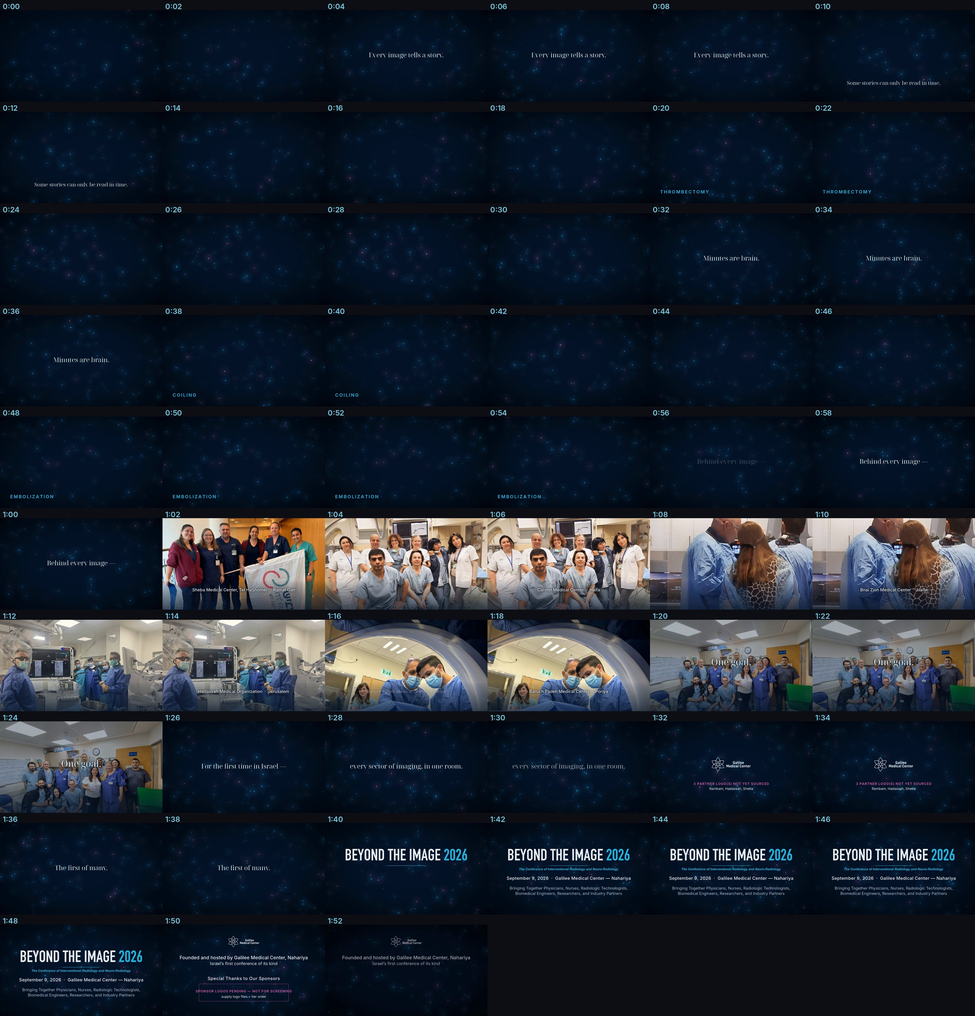
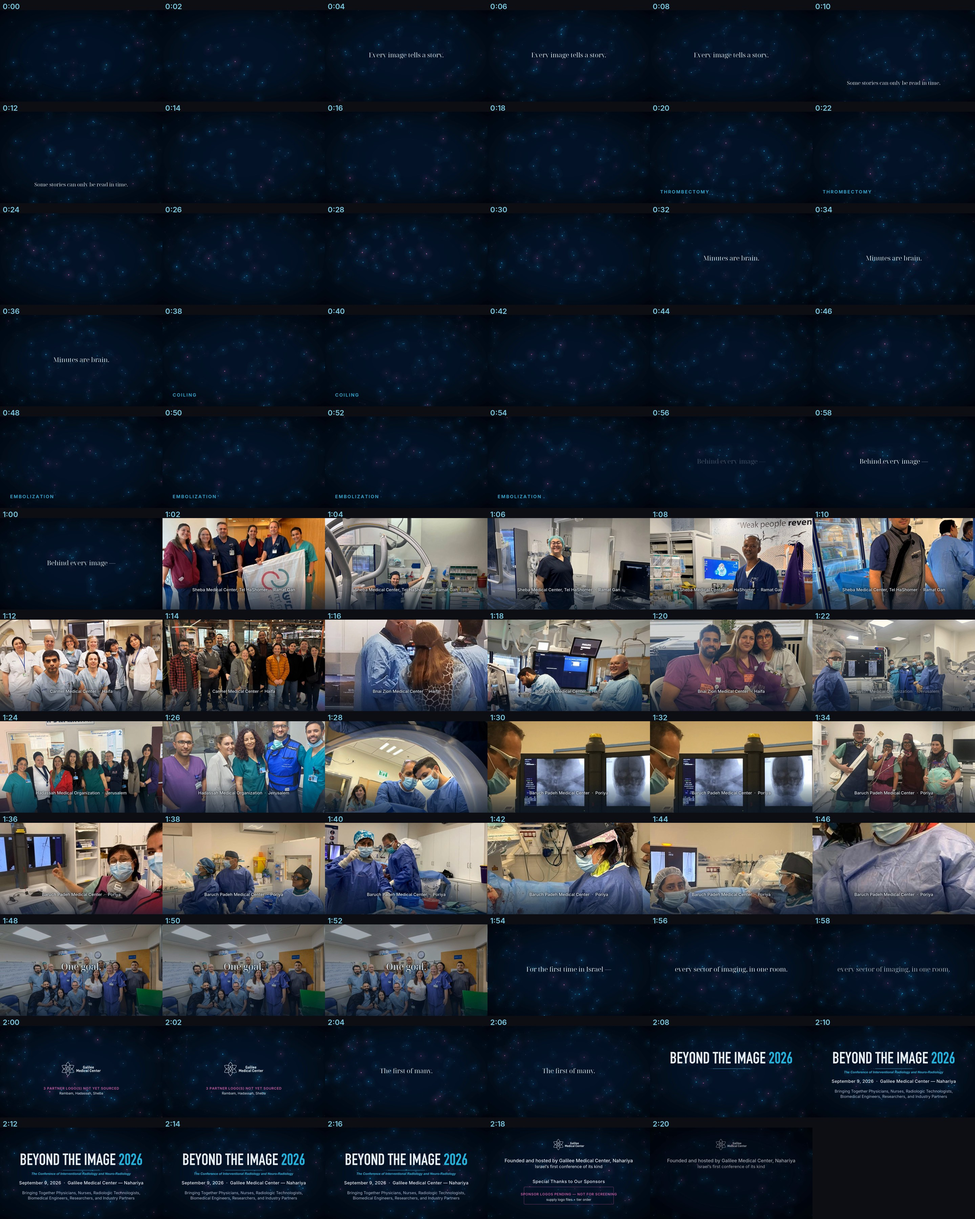
Use every supplied photograph in the team montage
The montage was casting one photograph per institution and leaving the rest
in reserve. It now runs all 23 supplied photographs, grouped by institution
in the client-specified order, 2.14s each, with one caption held across each
group rather than one per frame - a caption per photograph would flash nine
times in nineteen seconds through the Poriya group.

photos.json now carries a "photos" list per institution instead of a single
"hero", so adding or reordering frames is a data edit.

Two photographs that were held back are rescued by cropping rather than
dropped:
- bnaizion_01 cropped to the right two-thirds removes the patient's face
  entirely; only the operators and the monitors remain, so the consent
  problem is gone.
- hadassah_02 cropped to the left 80% drops the foreground man who was cut
  through the skull by the frame edge.

S12 goes 24s -> 52s and the film 114s -> 142s, still inside the 155s ceiling.
Three Poriya frames carry visible blood; they are ordered last within their
group so removing them is a three-line edit if the client wants them out.

Claude-Session: https://claude.ai/code/session_017p5tYCJoZxeo71cVTyLicr

diff --git a/film/scripts/montage.py b/film/scripts/montage.py
@@ -1,10 +1,14 @@
 #!/usr/bin/env python3
-"""S12 - the team montage (25s, 1:30-1:55). The emotional core.
+"""S12 - the team montage. The emotional core.
+
+Every photograph the client supplied is in here, grouped by institution in the
+client-specified order, one caption held across each group.
 
 Hard rules honoured here:
   - photographs are never regenerated, restyled, filtered or face-altered
   - motion is limited to a slow push-in and a few px of drift
-  - each institution gets one slot, in the client-specified order
+  - a fractional crop may exclude something from frame (a patient, a sticker)
+    but never alters what stays in it
 Only geometry (cover-crop, scale) and a bottom scrim for caption legibility
 are applied. Pixels inside the frame are the client's own.
 """
@@ -15,6 +19,7 @@ from PIL import Image, ImageDraw, ImageFilter
 
 from filmlib import (ROOT, W, H, FPS, BG, CYAN, SILVER, font, load_photos,
                      centred_line, run, INTERMEDIATE)
+
 
 def _shot_dur(shot_id, default):
     from filmlib import load_storyboard
@@ -139,53 +144,72 @@ def dim_layer(opacity):
 
 
 def build_slots():
+    """Every supplied photograph gets a slot, grouped by institution.
+
+    Institutions with no photographs are skipped rather than filling the film's
+    emotional core with an empty reserved card; the montage re-expands by
+    itself the moment photographs land in photos.json.
+    """
     cfg = load_photos()
     insts = cfg["institutions"]
     order = cfg["montage_order"]
 
-    cast = [k for k in order
-            if insts[k].get("hero") and (ROOT / insts[k]["hero"]).exists()]
-    pending = [insts[k]["name"] for k in order if k not in cast]
+    groups = [(k, insts[k]["photos"]) for k in order
+              if [p for p in insts[k].get("photos", [])
+                  if (ROOT / p["file"]).exists()]]
+    pending = [insts[k]["name"] for k in order
+               if not insts[k].get("photos")]
 
-    # An empty "slot reserved" card is dead screen time in the film's emotional
-    # core. Institutions without photographs are simply not cast, and the time
-    # is shared between the ones that are - the montage re-expands by itself
-    # the moment a photograph lands in photos.json.
-    if not cast:
-        cast, pending = order, []
-    per = (SHOT_DUR - CLOSING_DUR) / len(cast)
+    total = sum(len(ps) for _, ps in groups)
+    if total == 0:
+        return [Slot(SHOT_DUR, None, pending_label="PHOTOGRAPHS PENDING")], \
+            pending, []
+    per = (SHOT_DUR - CLOSING_DUR) / total
 
-    slots = []
-    for i, key in enumerate(cast):
-        rec = insts[key]
-        hero = rec.get("hero")
-        path = ROOT / hero if hero else None
-        if path and path.exists():
-            slots.append(Slot(per, path, ANCHORS.get(key, DEFAULT_ANCHOR),
+    slots, layout, i = [], [], 0
+    for key, photos in groups:
+        start = len(slots)
+        for rec in photos:
+            path = ROOT / rec["file"]
+            if not path.exists():
+                continue
+            slots.append(Slot(per, path,
+                              rec.get("anchor", ANCHORS.get(key, DEFAULT_ANCHOR)),
                               drift_sign=1 if i % 2 == 0 else -1,
                               crop=rec.get("crop")))
-        else:
-            label = f"{rec['name'].upper()} — {rec['city'].upper()}"
-            slots.append(Slot(per, None, pending_label=label))
+            i += 1
+        if len(slots) > start:
+            layout.append((key, start, len(slots) - start))
 
-    closing = cfg["closing_slot"]["preferred"]
-    cpath = ROOT / closing
-    slots.append(Slot(CLOSING_DUR, cpath if cpath.exists() else None,
+    closing = ROOT / cfg["closing_slot"]["preferred"]
+    slots.append(Slot(CLOSING_DUR, closing if closing.exists() else None,
                       0.36, pending_label="CLOSING FRAME PENDING"))
-    return slots, pending, cast
+    return slots, pending, layout
 
 
-def caption_schedule(slots, cast):
-    """(png, fade_in, fade_out) per slot, keyed to the institution in frame."""
-    sched, t = [], 0.0
-    for key, s in zip(cast, slots[:-1]):
+def caption_schedule(slots, layout):
+    """One caption per institution, held across that institution's whole group.
+
+    A caption per photograph would flash six times in twelve seconds; a caption
+    per group reads as a chapter heading, which is what it is.
+    """
+    starts, acc = [], 0.0
+    for s in slots:
+        starts.append(acc)
+        acc += s.dur
+
+    sched = []
+    for key, first, count in layout:
         p = TEXT / f"S12_inst_{key}.png"
-        if p.exists():
-            sched.append((p, t + 0.6, t + s.dur - 0.5))
-        t += s.dur
+        if not p.exists():
+            continue
+        a = starts[first]
+        b = starts[first + count - 1] + slots[first + count - 1].dur
+        sched.append((p, a + 0.4, b - 0.45))
+
     og = TEXT / "S12_onegoal.png"
     if og.exists():
-        sched.append((og, t + 0.2, None))
+        sched.append((og, starts[-1] + 0.2, None))
     return sched
 
 
@@ -194,7 +218,7 @@ def render():
     for f in FRAMES.glob("*.png"):
         f.unlink()
 
-    slots, pending, cast = build_slots()
+    slots, pending, layout = build_slots()
     scrim = bottom_scrim()
     starts, acc = [], 0.0
     for s in slots:
@@ -202,7 +226,7 @@ def render():
         acc += s.dur
 
     captions = [(Image.open(p).convert("RGBA"), a, b) for p, a, b in
-                caption_schedule(slots, cast)]
+                caption_schedule(slots, layout)]
 
     total = int(round(SHOT_DUR * FPS))
     for n in range(total):
@@ -240,7 +264,7 @@ def render():
          *INTERMEDIATE, str(out)])
     for f in FRAMES.glob("*.png"):
         f.unlink()
-    print(f"  -> {out.relative_to(ROOT)}  ({SHOT_DUR}s, {len(slots)} slots)")
+    print(f"  -> {out.relative_to(ROOT)}  ({SHOT_DUR:g}s, {len(slots)} photographs, {slots[0].dur:.2f}s each)")
     if pending:
         print("  PENDING photographs: " + ", ".join(pending))
     return out

diff --git a/film/README.md b/film/README.md
@@ -28,7 +28,7 @@ Requires `ffmpeg`, `rsvg-convert`, `poppler-utils`, and Python with
 
 | | |
 |---|---|
-| Runtime | **114.00s** — 1:54. Shortened from the brief's 150s at the client's request |
+| Runtime | **142.00s** — 2:22 (ceiling 155s) |
 | Shots from real sources | 3 / 16 — S12, S15, S16 |
 | Placeholders | 13 — brand particle field, real caption at real timing |
 | Audio | **silent** — awaiting a licensed track in `assets/source/music/` |
@@ -44,8 +44,10 @@ generated or filmed material exists.
   "BEYOND THE THE IMAGE 2026"; this uses the client's own vector lockup lifted
   from the conference programme PDF, so the wording is correct by construction.
 - **S16 credit** — under the genuine Galilee Medical Center mark, same source.
-- **S12 team montage** — 14 supplied photographs, four institutions, one slot
-  each in client-specified order, with slots reserved for Nahariya and Rambam.
+- **S12 team montage** — 52s. **All 23 supplied photographs**, grouped by
+  institution in the client-specified order, 2.14s each, one caption held
+  across each institution's group. Nahariya and Rambam are skipped until their
+  photographs arrive, at which point the montage re-times itself.
 
 ## Layout
 
